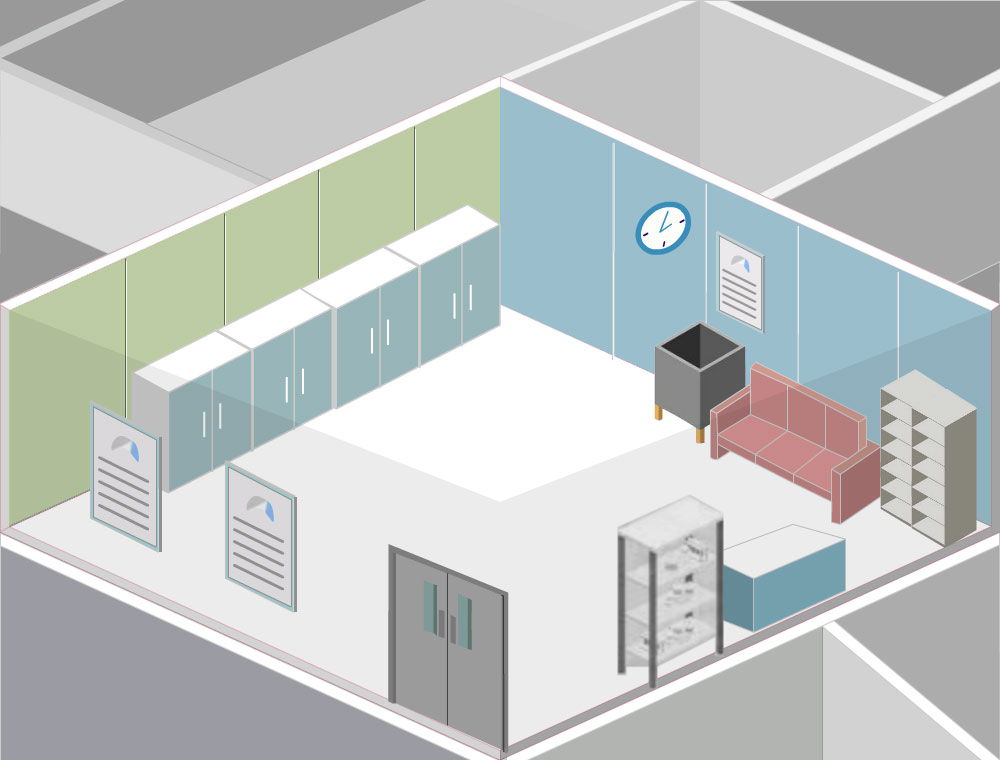
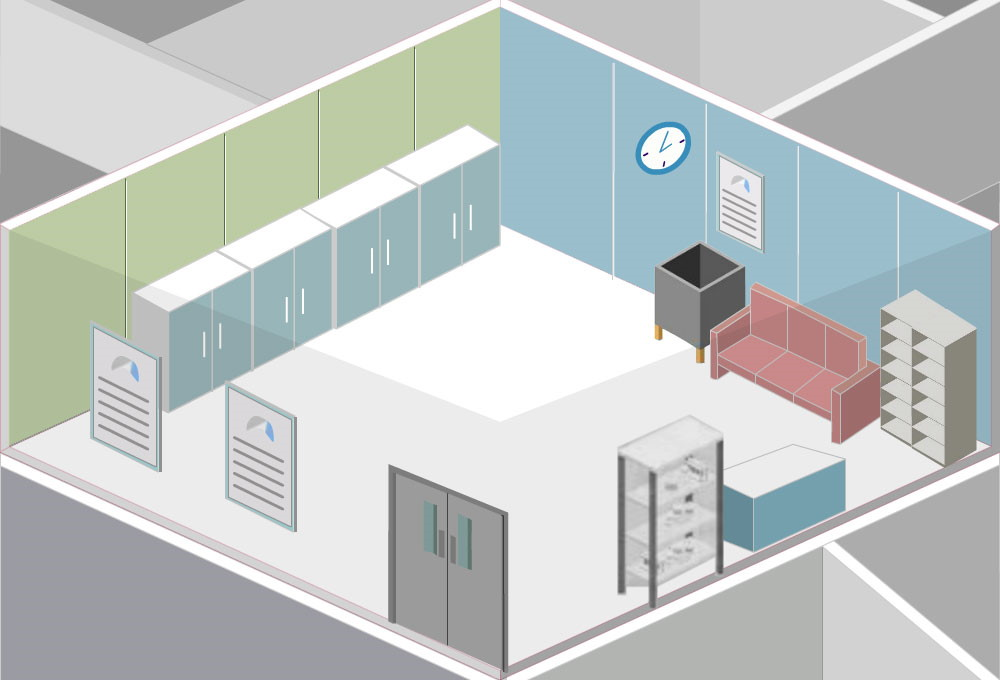
added more sprites, walls, changed background. Added some logic to draw the rooms and walls automatically

diff --git a/js/game.js b/js/game.js
@@ -5,7 +5,7 @@ App.prototype.start = function()
     var config = {
         type: Phaser.AUTO,
         width: 800,
-        height: 540,
+        height: 520,
         physics: {
             default: 'arcade',
             arcade: {
@@ -21,6 +21,7 @@ App.prototype.start = function()
     };
 
         var megaMAP;
+        var roomsMAP;
         var player;
         var room;
         var stars;
@@ -35,26 +36,49 @@ App.prototype.start = function()
         var _this;
         var position = {x: 0, y: 0};
 
-        var doorsHolder = { right: {image: 'jpg/doorR.png', key: 'doorR', offsetX: 340, offsetY: 60 },
-                            down: {image: 'jpg/doorD.png', key: 'doorD', offsetX: -20, offsetY: 220 },
-                            up: {image: 'jpg/doorU.png', key: 'doorU', offsetX: -20, offsetY: -200 },
-                            left: {image: 'jpg/doorL.png', key: 'doorL', offsetX: -340, offsetY: 60 }}
+        var doorsHolder = { right: {image: 'png/doorR.png', key: 'doorR', offsetX: 340, offsetY: 80 },
+                            down: {image: 'png/doorD.png', key: 'doorD', offsetX: -20, offsetY: 160 },
+                            up: {image: 'png/doorU.png', key: 'doorU', offsetX: -20, offsetY: -180 },
+                            left: {image: 'png/doorL.png', key: 'doorL', offsetX: -340, offsetY: 80 }}
 
-        var doorsArray = [[doorsHolder.right, doorsHolder.down],[doorsHolder.up,doorsHolder.right],[doorsHolder.left,doorsHolder.right]];
+        var doorsArray = [];//[[doorsHolder.right, doorsHolder.down],[doorsHolder.up,doorsHolder.right],[doorsHolder.left,doorsHolder.right]];
 
         function preload ()
         {
             this.load.json('megaMAP', 'rest/getMap.php');
             this.load.image('sky', 'assets/sky.png');
+            // loading rooms assets: 16 rooms types in total!
             this.load.image('u0d1l0r1', 'jpg/u0d1l0r1.jpg');
             this.load.image('u0d1l1r0', 'jpg/u0d1l1r0.jpg');
             this.load.image('u1d0l0r1', 'jpg/u1d0l0r1.jpg');
             this.load.image('u1d0l1r1', 'jpg/u1d0l1r1.jpg');
-
             this.load.image('u0d0l1r1', 'jpg/u0d0l1r1.jpg');
             this.load.image('u1d0l1r0', 'jpg/u1d0l1r0.jpg');
+            this.load.image('u0d0l0r0', 'jpg/u0d0l0r0.jpg');
+            this.load.image('u0d0l0r1', 'jpg/u0d0l0r1.jpg');
+            this.load.image('u0d0l1r0', 'jpg/u0d0l1r0.jpg');
+            this.load.image('u0d1l0r0', 'jpg/u0d1l0r0.jpg');
+            this.load.image('u0d1l1r1', 'jpg/u0d1l1r1.jpg');
+            this.load.image('u1d0l0r0', 'jpg/u1d0l0r0.jpg');
+            this.load.image('u1d1l0r0', 'jpg/u1d1l0r0.jpg');
+            this.load.image('u1d1l0r1', 'jpg/u1d1l0r1.jpg');
+            this.load.image('u1d1l1r0', 'jpg/u1d1l1r0.jpg');
+            this.load.image('u1d1l1r1', 'jpg/u1d1l1r1.jpg');
 
+            //baseRoomBack = RoomBG_red.png 1000 px X 650px
+            // scale 0.8 we have: 800 x 520
+            this.load.image('baseRoomBack', 'png/RoomBG_red.png');
+            // rooms assets section completed!
 
+            //doors:
+            this.load.image('doorU', 'png/doorU.png');
+            this.load.image('doorD', 'png/doorD.png');
+            this.load.image('doorL', 'png/doorL.png');
+            this.load.image('doorR', 'png/doorR.png');
+            //==============================================
+            //blocks:
+            this.load.image('blockRed', 'png/block20x20red.png');
+            //==================
             this.load.image('wall400x230', 'jpg/glassWall400x230.png');
             this.load.image('wall400x300', 'jpg/glassWall400x300.png');
             _this = this;
@@ -75,60 +99,26 @@ App.prototype.start = function()
         {
             // init other states
             megaMAP = game.cache.json.get('megaMAP');
+
+            // console.log("megaMAP: "+megaMAP);
+            // console.log("roomsMAP: "+roomsMAP);
             showMazeGfx(megaMAP.doorsMAP, "mazeWDrsRmsMap");
-            //  A simple background for our game
             buildWorld(this);
 
             cursors = this.input.keyboard.createCursorKeys();
             scoreText = this.add.text(16, 16, 'score: 0', { fontSize: '32px', fill: '#000' });
 
-            walls = this.physics.add.staticGroup();
-
-            walls.create(160, 450, 'wall400x230').setScale(0.8).refreshBody();
-            walls.create(640, 450, 'wall400x230').setScale(0.8).refreshBody();
-            walls.create(160, 120, 'wall400x300').setScale(0.8).refreshBody();
-            walls.create(640, 120, 'wall400x300').setScale(0.8).refreshBody();
-            // doors
-            doors = this.physics.add.group();
-
-            console.log(doorsArray);
-            // for(var i = 0; i < doorsArray.length; i++) {
-            //     var door = doorsArray[i]
-            //     var d = doors.create(400+door.offsetX, 300+door.offsetY, door.key).setScale(0.8);
-            //     d.settings = { key: door.key };
-            //     console.log(d);
+            // walls = this.physics.add.staticGroup();
+            // for (var i = 0; i < 9; i++) {
+            //   walls.create(480 + (i * 20), 120 + ((i* 0.70) * 20), 'blockRed').setScale(0.8).refreshBody();
+            //   walls.create(150 + (i * 20), 380 + ((i* 0.70) * 20), 'blockRed').setScale(0.8).refreshBody();
+            //   walls.create(320 - (i * 20), 120 + ((i* 0.70) * 20), 'blockRed').setScale(0.8).refreshBody();
+            //   walls.create(490 + (i * 20), 490 - ((i* 0.70) * 20), 'blockRed').setScale(0.8).refreshBody();
             // }
-            var arrAllDoorsRooms = [];
-            megaMAP.doorsMAP.forEach( (mapDoors,y) => mapDoors.forEach( function(mapDoor,x) {
-                 // TODO:
-                  console.log('generateArrayMap mapDoor: ', mapDoor);
-                  console.log('Coordinates: ', { x:x, y:y, mapDoor: mapDoor});
-                  var arrDoorsInRoom = [];
-                  if (mapDoor.U === 1) {
-                    arrDoorsInRoom.push ({up: {image: 'jpg/doorU.png', key: 'doorU', offsetX: -20, offsetY: -200 }});
-                  }
-                  if (mapDoor.D === 1) {
-                    arrDoorsInRoom.push ({ down: {image: 'jpg/doorD.png', key: 'doorD', offsetX: -20, offsetY: 220 }});
-                  }
-                  if (mapDoor.L === 1) {
-                    arrDoorsInRoom.push ({ left: {image: 'jpg/doorL.png', key: 'doorL', offsetX: -340, offsetY: 60 }});
-                  }
-                  if (mapDoor.R === 1) {
-                    arrDoorsInRoom.push ({ right: {image: 'jpg/doorR.png', key: 'doorR', offsetX: 340, offsetY: 60 }});
-                  }
-                  console.log('generateArrayMap arrDoorsInRoom: ', arrDoorsInRoom);
-               })
-               //arrAllDoorsRooms.push (arrDoorsInRoom);
-            );
-            doorsArray.forEach( (mapDoors,y) => mapDoors.forEach( function(door,x) {
-                    var indX = 800 * x;
-                    var indY = 540 * y;
-                    var d = doors.create(400 + door.offsetX + indX, 270 + door.offsetY + indY, door.key).setScale(0.8);
-                    d.settings = { key: door.key, x:x, y:y};
-                    console.log(door);
-                    console.log(d);
-              })
-            );
+            // walls.create(160, 450, 'wall400x230').setScale(0.8).refreshBody();
+            // walls.create(640, 450, 'wall400x230').setScale(0.8).refreshBody();
+            // walls.create(160, 120, 'wall400x300').setScale(0.8).refreshBody();
+            // walls.create(640, 120, 'wall400x300').setScale(0.8).refreshBody();
 
             // The player and its settings
             player = this.physics.add.sprite(400, 300, 'dude');
@@ -197,15 +187,110 @@ App.prototype.start = function()
         }
 
         function buildWorld(scene) {
-             scene.add.image(400, 270, 'u0d1l0r1').setScale(0.8);
-             scene.add.image(400+800, 270, 'u0d1l1r0').setScale(0.8);
-             scene.add.image(400, 270 + 540, 'u1d0l0r1').setScale(0.8);
-             scene.add.image(400+800, 270 + 540, 'u1d0l1r1').setScale(0.8);
+          //We get our source from the following rest:
+          // megaMAP = game.cache.json.get('megaMAP');
+          // showMazeGfx(megaMAP.doorsMAP, "mazeWDrsRmsMap");
+          // roomsMAP = game.cache.json.get('doorsMAP');
+          doors = scene.physics.add.group();
+          var arrAllDoorsRooms = [];
+          var arrOneLevelRooms = [];
+          var idx = 0;
+          megaMAP.doorsMAP.forEach( (mapDoors,y) => { mapDoors.forEach( function(mapDoor,x) {
+               // TODO:
+                   var indX = 800 * x;
+                   var indY = 540 * y;
+                    //console.log('generateArrayMap mapDoor: ', mapDoor);
+                    //var roomName = JSON.stringify(mapDoor);
+                    var roomName = 'u'+mapDoor.U+'d'+mapDoor.D+'l'+mapDoor.L+'r'+mapDoor.R;
+                    // scene.add.image(400 +indX, 270 + indY, roomName).setScale(0.8);
 
-             scene.add.image(400+1600, 270, 'u0d0l1r1').setScale(0.8);
-             scene.add.image(400+2400, 270, 'u0d1l1r0').setScale(0.8);
-             scene.add.image(400+1600, 270 + 540, 'u0d0l1r1').setScale(0.8);
-             scene.add.image(400+2400, 270 + 540, 'u1d0l1r0').setScale(0.8);
+                    // Since I'm using only one backgroun now: baseRoomBack = RoomBG_red.png
+                    scene.add.image(400 +indX, 270 + indY, 'baseRoomBack').setScale(0.8);
+
+                    //console.log('Coordinates: ', { x:x, y:y, mapDoor: mapDoor});
+                    // var arrDoorsInRoom = [];
+                    // if (mapDoor.U === 1) {
+                    //   arrDoorsInRoom.push ({up: {image: 'jpg/doorU.png', key: 'doorU', offsetX: -20, offsetY: -200 }});
+                    // }
+                    // if (mapDoor.D === 1) {
+                    //   arrDoorsInRoom.push ({ down: {image: 'jpg/doorD.png', key: 'doorD', offsetX: -20, offsetY: 220 }});
+                    // }
+                    // if (mapDoor.L === 1) {
+                    //   arrDoorsInRoom.push ({ left: {image: 'jpg/doorL.png', key: 'doorL', offsetX: -340, offsetY: 60 }});
+                    // }
+                    // if (mapDoor.R === 1) {
+                    //   arrDoorsInRoom.push ({ right: {image: 'jpg/doorR.png', key: 'doorR', offsetX: 340, offsetY: 60 }});
+                    // }
+                    //console.log('arrDoorsInRoom: ' + arrDoorsInRoom);
+                 })
+              //arrAllDoorsRooms.push(arrOneLevelRooms);
+              }
+             );
+             for (var i = 0; i < 9; i++) {
+               walls.create(480 + (i * 20), 120 + ((i* 0.70) * 20), 'blockRed').setScale(0.8).refreshBody();
+               walls.create(150 + (i * 20), 380 + ((i* 0.70) * 20), 'blockRed').setScale(0.8).refreshBody();
+               walls.create(320 - (i * 20), 120 + ((i* 0.70) * 20), 'blockRed').setScale(0.8).refreshBody();
+               walls.create(490 + (i * 20), 490 - ((i* 0.70) * 20), 'blockRed').setScale(0.8).refreshBody();
+             }
+
+             // doors
+             /* { right: {image: 'png/doorR.png', key: 'doorR', offsetX: 340, offsetY: 80 },
+                                 down: {image: 'png/doorD.png', key: 'doorD', offsetX: -20, offsetY: 160 },
+                                 up: {image: 'png/doorU.png', key: 'doorU', offsetX: -20, offsetY: -180 },
+                                 left: {image: 'png/doorL.png', key: 'doorL', offsetX: -340, offsetY: 80 }}
+              */
+
+
+             walls = scene.physics.add.staticGroup();
+             megaMAP.doorsMAP.forEach( (mapDoors,y) => { mapDoors.forEach( function(mapDoor,x) {
+                     var indX = 800 * (x + 0);
+                     var indY = 540 * (y + 0);
+
+                     if (mapDoor.U === 1) {
+                       console.log ('x: ' + x + '/ y: ' + y);
+                       doors.create(indX + 400 , indY + 80, 'doorU').setScale(.8);
+                     }
+                     if (mapDoor.D === 1) {
+                       doors.create(indX +400, indY + 500, 'doorD').setScale(0.8);
+                     }
+                     if (mapDoor.L === 1) {
+                       doors.create(indX + 50, indY + 310, 'doorL').setScale(0.8);
+                     }
+                     if (mapDoor.R === 1) {
+                       doors.create(indX + 750, indY + 310, 'doorR').setScale(0.8);
+                     }
+                     console.log('doors location:  U' + mapDoor.U + 'D'+ mapDoor.D + 'L' +  mapDoor.L + 'R' + mapDoor.R);
+                     // var d = doors.create(400 + door.offsetX + indX, 270 + door.offsetY + indY, door.key).setScale(0.8);
+                     // d.settings = { key: door.key, x:x, y:y};
+                     // console.log(door);
+                     // console.log(d);
+               })
+             }
+             );
+
+             // doorsArray.forEach( (mapDoors,y) => mapDoors.forEach( function(door,x) {
+             //         var indX = 800 * x;
+             //         var indY = 540 * y;
+             //         var d = doors.create(400 + door.offsetX + indX, 270 + door.offsetY + indY, door.key).setScale(0.8);
+             //         d.settings = { key: door.key, x:x, y:y};
+             //         // console.log(door);
+             //         // console.log(d);
+             //   })
+             // );
+
+
+          // for (var i = 0; i < roomsMAP.length; i++) {
+          //   console.log("roomsMAP[" + i + "]: " + roomsMAP[i]);
+          // }
+          //    scene.add.image(400, 270, 'u0d1l0r1').setScale(0.8);
+          //    scene.add.image(400+800, 270, 'u0d1l1r0').setScale(0.8);
+          //    scene.add.image(400, 270 + 540, 'u1d0l0r1').setScale(0.8);
+          //    scene.add.image(400+800, 270 + 540, 'u1d0l1r1').setScale(0.8);
+          //
+          //    scene.add.image(400+1600, 270, 'u0d0l1r1').setScale(0.8);
+          //    scene.add.image(400+2400, 270, 'u0d1l1r0').setScale(0.8);
+          //    scene.add.image(400+1600, 270 + 540, 'u0d0l1r1').setScale(0.8);
+          //    scene.add.image(400+2400, 270 + 540, 'u1d0l1r0').setScale(0.8);
 
         }
 
@@ -249,22 +334,22 @@ App.prototype.start = function()
        function playerNavigationHandler () {
         if (cursors.left.isDown)
             {
-                player.setVelocityX(-160);
+                player.setVelocityX(-260);
                 player.anims.play('left', true);
             }
             else if (cursors.up.isDown)
             {
-                player.setVelocityY(-100);
+                player.setVelocityY(-200);
                 player.anims.play('up', true);
             }
             else if (cursors.down.isDown)
             {
-                player.setVelocityY(100);
+                player.setVelocityY(200);
                 player.anims.play('down', true);
             }
             else if (cursors.right.isDown)
             {
-                player.setVelocityX(160);
+                player.setVelocityX(260);
                 player.anims.play('right', true);
             }
             else
@@ -274,10 +359,10 @@ App.prototype.start = function()
                 player.anims.play('turn');
             }
 
-            if (cursors.up.isDown && player.body.touching.down)
-            {
-                player.setVelocityY(-330);
-            }
+            // if (cursors.up.isDown && player.body.touching.down)
+            // {
+            //     player.setVelocityY(-330);
+            // }
        }
 
         function initPlayer(scene) {
